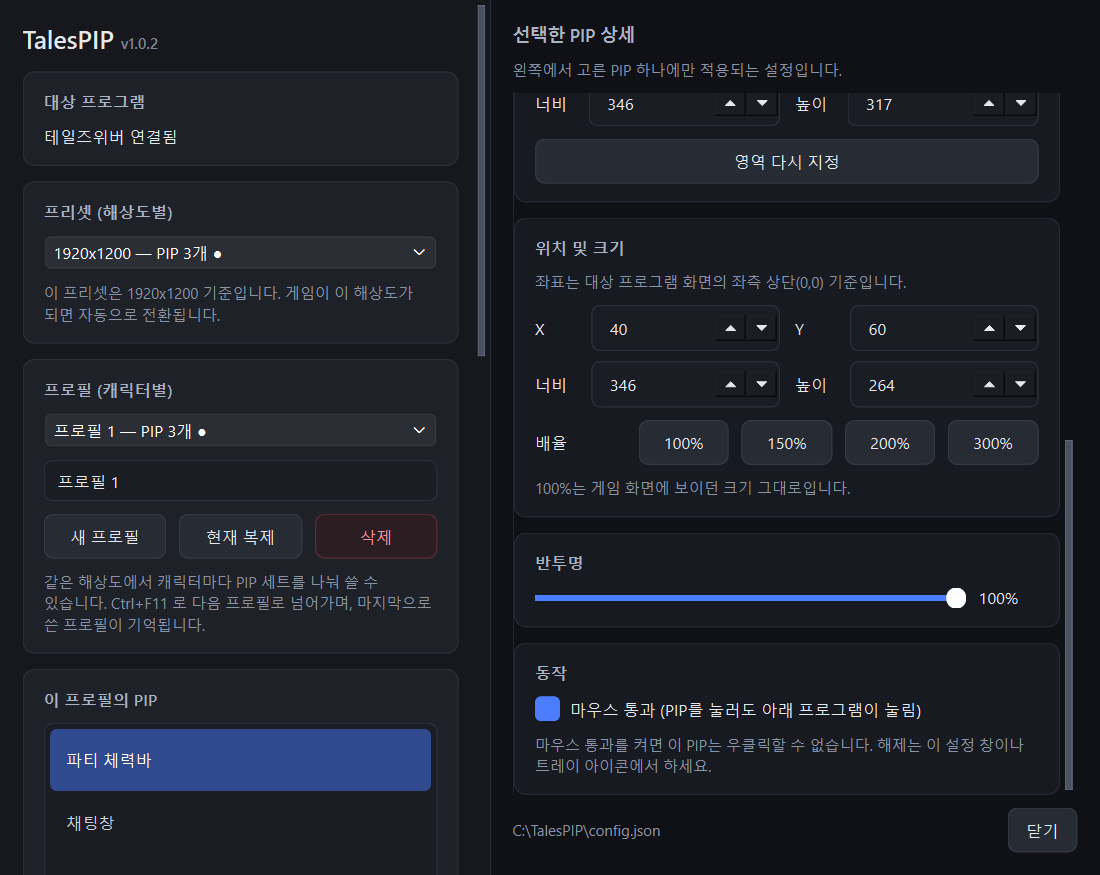
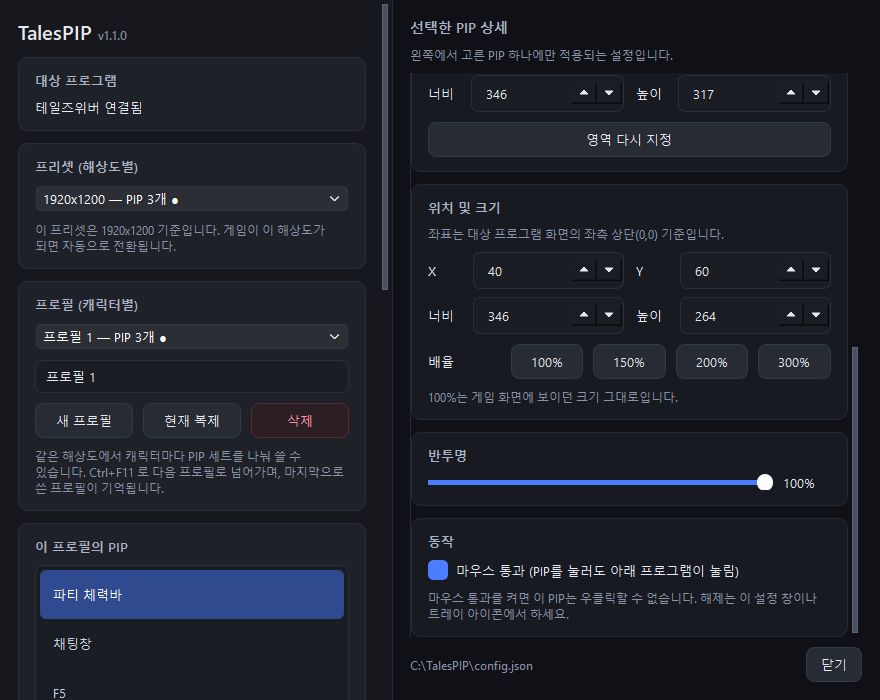
Take the screen detection card out of the settings window
It is not something to configure. The conditions ship with the build,
the positions are learned on their own, and a list of them was only
inviting a user to break something that already works.

The feature is unchanged and still reads auto_hide from the config file,
so setting "enabled" to false there is the way out if it ever misjudges
someone's setup. The readme says so in place of the old instructions.

diff --git a/tales_pip.py b/tales_pip.py
@@ -147,8 +147,7 @@ try:
         QApplication, QWidget, QMenu, QMessageBox, QLabel,
         QDialog, QListWidget, QListWidgetItem, QPushButton, QHBoxLayout, QVBoxLayout,
         QSystemTrayIcon, QCheckBox, QSpinBox, QSlider, QLineEdit,
-        QStackedWidget, QFrame, QGridLayout, QComboBox, QScrollArea,
-        QFileDialog
+        QStackedWidget, QFrame, QGridLayout, QComboBox, QScrollArea
     )
 except Exception:
     log_exception()
@@ -1888,49 +1887,6 @@ class SettingsDialog(QDialog):
 
         left_layout.addWidget(global_card)
 
-        auto_card, auto_layout = make_card("자동 숨김 (화면 감지)")
-        hint_auto = QLabel("게임 화면을 읽어 접속 전이거나 큰 창이 떠 있을 때 PIP를 숨깁니다. "
-                            "가려야 할 창을 직접 더 등록할 수 있습니다.")
-        hint_auto.setObjectName("Caption")
-        hint_auto.setWordWrap(True)
-        auto_layout.addWidget(hint_auto)
-        self.chk_auto_hide = QCheckBox("화면 감지 사용")
-        self.chk_auto_hide.toggled.connect(self._commit_auto_hide)
-        auto_layout.addWidget(self.chk_auto_hide)
-
-        self.trigger_list = QListWidget()
-        self.trigger_list.setMinimumHeight(96)
-        self.trigger_list.itemChanged.connect(self._on_trigger_checked)
-        self.trigger_list.currentItemChanged.connect(lambda *_: self._load_trigger_mode())
-        auto_layout.addWidget(self.trigger_list)
-
-        anchor_row = QHBoxLayout()
-        self.combo_trigger_anchor = QComboBox()
-        for key, label in TRIGGER_ANCHORS:
-            self.combo_trigger_anchor.addItem(label, key)
-        self.combo_trigger_anchor.currentIndexChanged.connect(self._commit_trigger_anchor)
-        anchor_row.addWidget(QLabel("선택한 조건을 찾을 위치"))
-        anchor_row.addWidget(self.combo_trigger_anchor, 1)
-        auto_layout.addLayout(anchor_row)
-
-        trigger_row = QHBoxLayout()
-        btn_trigger_add = QPushButton("화면에서 추가")
-        btn_trigger_add.clicked.connect(self._add_trigger)
-        btn_trigger_file = QPushButton("이미지 파일")
-        btn_trigger_file.clicked.connect(self._add_trigger_file)
-        btn_trigger_del = QPushButton("삭제")
-        btn_trigger_del.setObjectName("Danger")
-        btn_trigger_del.clicked.connect(self._delete_trigger)
-        for button in (btn_trigger_add, btn_trigger_file, btn_trigger_del):
-            trigger_row.addWidget(button)
-        auto_layout.addLayout(trigger_row)
-
-        self.lbl_auto_hide = QLabel("")
-        self.lbl_auto_hide.setObjectName("Caption")
-        self.lbl_auto_hide.setWordWrap(True)
-        auto_layout.addWidget(self.lbl_auto_hide)
-        left_layout.addWidget(auto_card)
-
         hotkey_card, hotkey_layout = make_card("단축키")
         self.hotkey_edit = HotkeyEdit()
         self.hotkey_edit.captured.connect(self._commit_hotkey)
@@ -2150,9 +2106,6 @@ class SettingsDialog(QDialog):
             # The registry is the source of truth, not config.json.
             self.chk_startup.setChecked(is_startup_enabled())
             self.chk_updates.setChecked(bool(self.controller.config.get("check_updates", True)))
-            self.chk_auto_hide.setChecked(
-                bool(self.controller.auto_hide_options().get("enabled", True)))
-            self.chk_auto_hide.setEnabled(MATCHING_AVAILABLE)
             self.chk_notify.setChecked(bool(self.controller.config.get("notifications", True)))
             self.chk_hover.setChecked(bool(self.controller.config.get("dim_on_hover", True)))
             hover = int(self.controller.config.get("hover_opacity", 60))
@@ -2177,7 +2130,6 @@ class SettingsDialog(QDialog):
             self.show_update(self.controller.latest_version)
         self._load_preset_fields()
         self._reload_profile_combo()
-        self.reload_trigger_list()
         self.update_preset_state()
         self.reload_region_list()
 
@@ -2555,124 +2507,6 @@ class SettingsDialog(QDialog):
             self._load_preset_fields()
             self._reload_profile_combo()
             self.reload_region_list()
-
-    def reload_trigger_list(self):
-        current = None
-        item = self.trigger_list.currentItem()
-        if item:
-            current = item.data(Qt.ItemDataRole.UserRole)
-        self._loading += 1
-        try:
-            self.trigger_list.clear()
-            for trigger in self.controller.user_triggers():
-                where = dict(TRIGGER_ANCHORS).get(trigger.get("anchor", "all"), "")
-                entry = QListWidgetItem(f"{trigger.get('name', '조건')}  · {where}")
-                entry.setData(Qt.ItemDataRole.UserRole, trigger["id"])
-                entry.setFlags(entry.flags() | Qt.ItemFlag.ItemIsUserCheckable)
-                entry.setCheckState(Qt.CheckState.Checked if trigger.get("enabled", True)
-                                     else Qt.CheckState.Unchecked)
-                self.trigger_list.addItem(entry)
-                if trigger["id"] == current:
-                    self.trigger_list.setCurrentItem(entry)
-        finally:
-            self._loading -= 1
-        self._load_trigger_mode()
-        self.update_auto_hide_state()
-
-    def update_auto_hide_state(self):
-        controller = self.controller
-        options = controller.auto_hide_options()
-        count = len(controller.user_triggers())
-        if not MATCHING_AVAILABLE:
-            text = "이 빌드에는 화면 감지 기능이 포함되지 않았습니다."
-        elif not options.get("enabled", True):
-            text = "꺼져 있습니다."
-        elif controller.auto_hidden:
-            text = (controller.watcher.reason or "조건 감지") + " — PIP를 숨기는 중입니다."
-        elif not count:
-            text = ("가리고 싶은 창을 게임에서 열어둔 뒤 "
-                     "화면에서 추가를 누르고 그 창의 고유한 부분을 드래그하세요.")
-        else:
-            text = f"감시 중입니다. 직접 등록한 조건 {count}개."
-        self.lbl_auto_hide.setText(text)
-
-    def _load_trigger_mode(self):
-        trigger = self._selected_trigger()
-        self._loading += 1
-        try:
-            self.combo_trigger_anchor.setEnabled(trigger is not None)
-            index = self.combo_trigger_anchor.findData(
-                (trigger or {}).get("anchor", "all"))
-            self.combo_trigger_anchor.setCurrentIndex(max(0, index))
-        finally:
-            self._loading -= 1
-
-    def _selected_trigger(self):
-        item = self.trigger_list.currentItem()
-        if not item:
-            return None
-        wanted = item.data(Qt.ItemDataRole.UserRole)
-        return next((t for t in self.controller.user_triggers()
-                      if t["id"] == wanted), None)
-
-    def _commit_trigger_anchor(self, _index):
-        if self._loading:
-            return
-        trigger = self._selected_trigger()
-        if trigger is None:
-            return
-        self.controller.set_trigger_anchor(trigger["id"],
-                                            self.combo_trigger_anchor.currentData())
-        self.reload_trigger_list()
-
-    def _commit_auto_hide(self, checked):
-        if self._loading:
-            return
-        self.controller.auto_hide_options()["enabled"] = bool(checked)
-        save_config(self.controller.config)
-        self.controller.watcher.reload()
-        self.update_auto_hide_state()
-
-    def _on_trigger_checked(self, item):
-        if self._loading:
-            return
-        self.controller.set_trigger_enabled(
-            item.data(Qt.ItemDataRole.UserRole),
-            item.checkState() == Qt.CheckState.Checked)
-        self.update_auto_hide_state()
-
-    def _add_trigger(self):
-        self.controller.begin_capture_trigger(on_done=self.refresh)
-
-    def _add_trigger_file(self):
-        if not MATCHING_AVAILABLE:
-            QMessageBox.information(self, "안내",
-                                     "이 빌드에는 화면 감지 기능이 포함되지 않았습니다.")
-            return
-        path, _ = QFileDialog.getOpenFileName(
-            self, "숨김 조건으로 쓸 이미지", "",
-            "이미지 (*.png *.jpg *.jpeg *.bmp)")
-        if not path:
-            return
-        image = _cv2.imdecode(
-            _np.fromfile(path, dtype=_np.uint8), _cv2.IMREAD_COLOR)
-        if image is None:
-            QMessageBox.warning(self, "안내", "이미지를 읽지 못했습니다.")
-            return
-        self.controller.add_trigger(image, os.path.splitext(os.path.basename(path))[0])
-        self.refresh()
-
-    def _delete_trigger(self):
-        item = self.trigger_list.currentItem()
-        if not item:
-            return
-        if QMessageBox.question(
-                self, "조건 삭제", f"{item.text()} 을(를) 삭제합니다.",
-                QMessageBox.StandardButton.Yes | QMessageBox.StandardButton.No,
-                QMessageBox.StandardButton.No) != QMessageBox.StandardButton.Yes:
-            return
-        self.controller.delete_trigger(item.data(Qt.ItemDataRole.UserRole))
-        self.refresh()
 
     def _hotkey_editor(self, key):
         return (self.profile_hotkey_edit if key == "profile_hotkey"
@@ -3382,8 +3216,6 @@ class PipController(QObject):
         self.auto_hidden = matched
         self.apply_visibility()
         self.update_tray_tooltip()
-        if self.settings_dialog and self.settings_dialog.isVisible():
-            self.settings_dialog.update_auto_hide_state()
 
     def auto_hide_options(self):
         return self.config.setdefault("auto_hide", copy.deepcopy(DEFAULT_AUTO_HIDE))

diff --git a/README.md b/README.md
@@ -14,7 +14,7 @@
   - 단축키 한 번으로 다음 프로필로 전환, 마지막으로 쓴 프로필을 기억
 - **화면 감지** — 게임 화면을 읽어 PIP를 띄울 상황인지 판단
   - 캐릭터가 접속하기 전에는 띄우지 않고, 선택창으로 나가면 다시 숨김
-  - 오픈마켓·아이템샵 등 22가지 창을 기본 제공, 가려야 할 창을 직접 추가도 가능
+  - 오픈마켓·아이템샵 등 22가지 창을 열면 자동으로 비켜줌
 - **전역 단축키** — PIP 전체 표시/숨김 (게임 창이 포커스를 잡고 있어도 동작, 조합 직접 지정)
 - **마우스 통과** — PIP를 클릭해도 아래 게임이 눌리도록 설정 가능
 - **반투명 / 위치 / 크기** — PIP별로 개별 설정, 수치 입력도 지원
@@ -130,48 +130,29 @@ PIP를 **우클릭**하면 영역 추가·수정·삭제와 마우스 통과를 
 ### 7. 화면을 보고 알아서 숨기기
 
 TalesPIP는 게임 화면을 주기적으로 읽어 PIP를 띄워도 되는 상황인지 판단합니다.
+설정할 것은 없습니다. 알아서 동작합니다.
 
-대표적으로 **캐릭터가 접속하기 전에는 PIP가 뜨지 않습니다.**
+**캐릭터가 접속하기 전에는 PIP가 뜨지 않습니다.**
 로그인 화면과 캐릭터 선택창에는 가려줄 게임 화면이 없기 때문입니다.
 접속하면 나타나고, 다시 캐릭터 선택창으로 나가면 숨습니다.
 
-오픈마켓, 아이템샵, 옵션창처럼 화면을 크게 차지하는 창 **22가지**가 미리 등록되어
-있어서, 그 창을 열면 PIP가 비켜주고 닫으면 돌아옵니다.
-이 기준들은 프로그램에 들어 있어 따로 설정할 것이 없습니다.
+오픈마켓, 아이템샵, 옵션창처럼 화면을 크게 차지하는 창 **22가지**가 등록되어
+있습니다. 그 창을 열면 PIP가 비켜주고 닫으면 돌아옵니다.
 
-여기에 **가려야 할 창을 직접 더 등록**할 수 있습니다.
-
-1. 게임에서 그 창을 엽니다
-2. 좌측 **자동 숨김 (화면 감지)** 카드에서 **화면에서 추가**를 누릅니다
-3. 창 제목처럼 늘 같은 자리에 나오는 부분을 드래그합니다
-
-이미 가지고 있는 그림 파일이 있다면 **이미지 파일**로 바로 등록해도 됩니다.
-목록의 체크를 끄면 그 조건만 잠시 끌 수 있습니다.
-`선택한 조건을 찾을 위치` 를 지정하면 화면 전체 대신 그 구석만 뒤져서 훨씬 빠릅니다.
-
-### 얼마나 빨리 반응하나
-
-| 상황 | 걸리는 시간 |
+| 상황 | 반응 시간 |
 |---|---|
 | 전에 본 자리에서 창이 다시 열릴 때 | 약 0.1초 |
 | 그 자리에서 처음 열릴 때 | 1~4초 |
 
 창의 위치는 **해상도별로 기억**해 둡니다. 각 창을 한 번씩 열어보고 나면
-그 뒤로는 계속 0.1초입니다. 프로그램을 껐다 켜도 유지됩니다.
+그 뒤로는 계속 0.1초이고, 프로그램을 껐다 켜도 유지됩니다.
+창을 드래그해 옮겨도 따라갑니다.
 
-창을 드래그해 옮겨도 따라갑니다. 있던 자리에서 사라지면 화면 전체를 다시 훑어
-새 위치를 잡습니다.
+게임 창에서 직접 읽기 때문에 PIP나 다른 창이 그 위를 덮고 있어도 상관없습니다.
+다만 **전체화면 독점 모드에서는 동작하지 않습니다.** 창모드로 사용하세요.
 
-### 알아둘 점
-
-무늬가 거의 없는 부분은 등록되지 않습니다. 다른 화면과 구분이 안 돼서
-PIP가 계속 숨어버리기 때문입니다. 글자나 테두리가 들어간 부분을 고르세요.
-
-게임 창에서 직접 읽기 때문에 **PIP나 다른 창이 그 위를 덮고 있어도 상관없습니다.**
-다만 전체화면 독점 모드에서는 동작하지 않습니다. 창모드로 쓰세요.
-
-이 기능이 내 환경에서 오판정한다면 `화면 감지 사용` 체크를 끄면 됩니다.
-기본 제공 기준까지 함께 꺼져서 PIP가 항상 표시됩니다.
+내 환경에서 오판정이 생긴다면 `config.json` 의 `auto_hide` 안에 있는
+`"enabled": true` 를 `false` 로 바꾸고 다시 실행하면 PIP가 항상 표시됩니다.
 
 ### 8. 전역 설정과 단축키
 
